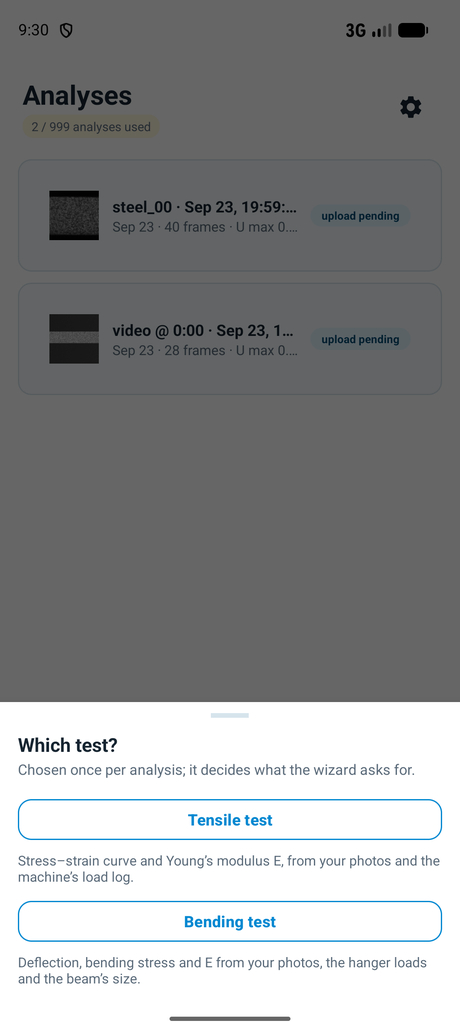
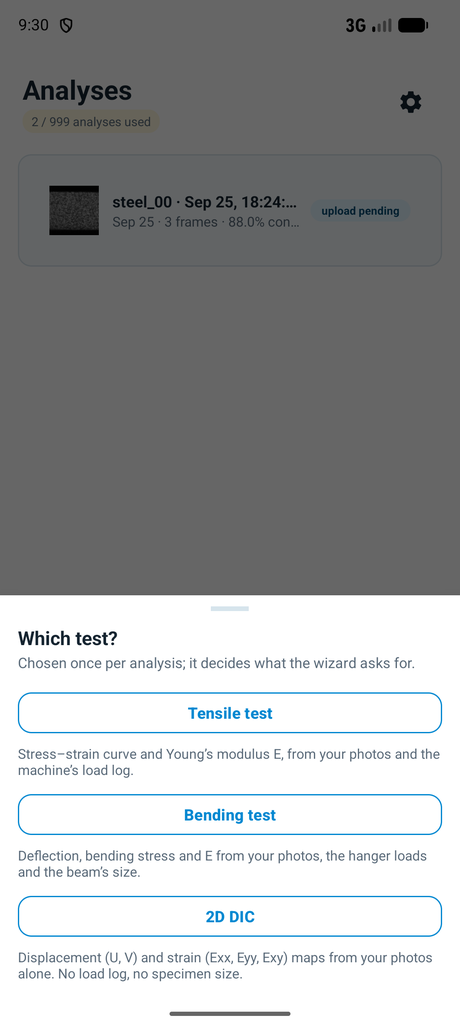
docs: retake test-type.png with the 2D DIC option
Same capture setup as the 2026-09-23 pass (light theme, SystemUI demo
mode at 09:30, 460 x 1022). Alt text in README and the manual names
all three choices.

diff --git a/docs/images/CAPTURE_CHECKLIST.md b/docs/images/CAPTURE_CHECKLIST.md
@@ -19,7 +19,7 @@ The results match [app/REAL_WORLD_VALIDATION.md](../app/REAL_WORLD_VALIDATION.md
 | File | Shows | Used in |
 |---|---|---|
 | `home.png` | Four analyses (tensile and bending) with **upload pending** badges | Manual §3, README |
-| `test-type.png` | **Which test?** with Tensile, Bending and 2D DIC | Manual §2, README |
+| `test-type.png` | **Which test?** with Tensile, Bending and 2D DIC (retaken 2026-09-25, API 36 emulator, same setup) | Manual §2, README |
 | `new-analysis-source.png` | Images tab: the gallery with a badged video | Manual §5 |
 | `media-picker-files-saf.png` | Files tab: the system browser in Downloads | Manual §5 |
 | `video-extract.png` | Video sampling in **Key frames** mode: 29 key frames | Manual §4 |

diff --git a/README.md b/README.md
@@ -11,7 +11,7 @@ Phone-camera **2D digital image correlation (DIC)** for the first-semester
 machine's load log. The app gives you E and fills in your lab report.
 
 <p align="center">
-  <img src="docs/images/test-type.png" width="220" alt="Which test? Tensile or Bending">
+  <img src="docs/images/test-type.png" width="220" alt="Which test? Tensile, Bending or 2D DIC">
   &nbsp;
   <img src="docs/images/step1-tensile.png" width="220" alt="Tensile setup: frames, load log, cross-section">
   &nbsp;

diff --git a/docs/OPERATING_MANUAL.md b/docs/OPERATING_MANUAL.md
@@ -39,7 +39,7 @@ You give it one reference frame and N deformed frames. It gives you five fields 
 
 **+** asks which test it is. That choice decides what the wizard asks for, and you make it once per analysis.
 
-<img src="images/test-type.png" width="260" alt="Which test? Tensile or Bending">
+<img src="images/test-type.png" width="260" alt="Which test? Tensile, Bending or 2D DIC">
 
 Formulas, accuracy and worked numbers: [app/STUDENT_LAB_WORKFLOW.md](app/STUDENT_LAB_WORKFLOW.md).
 
